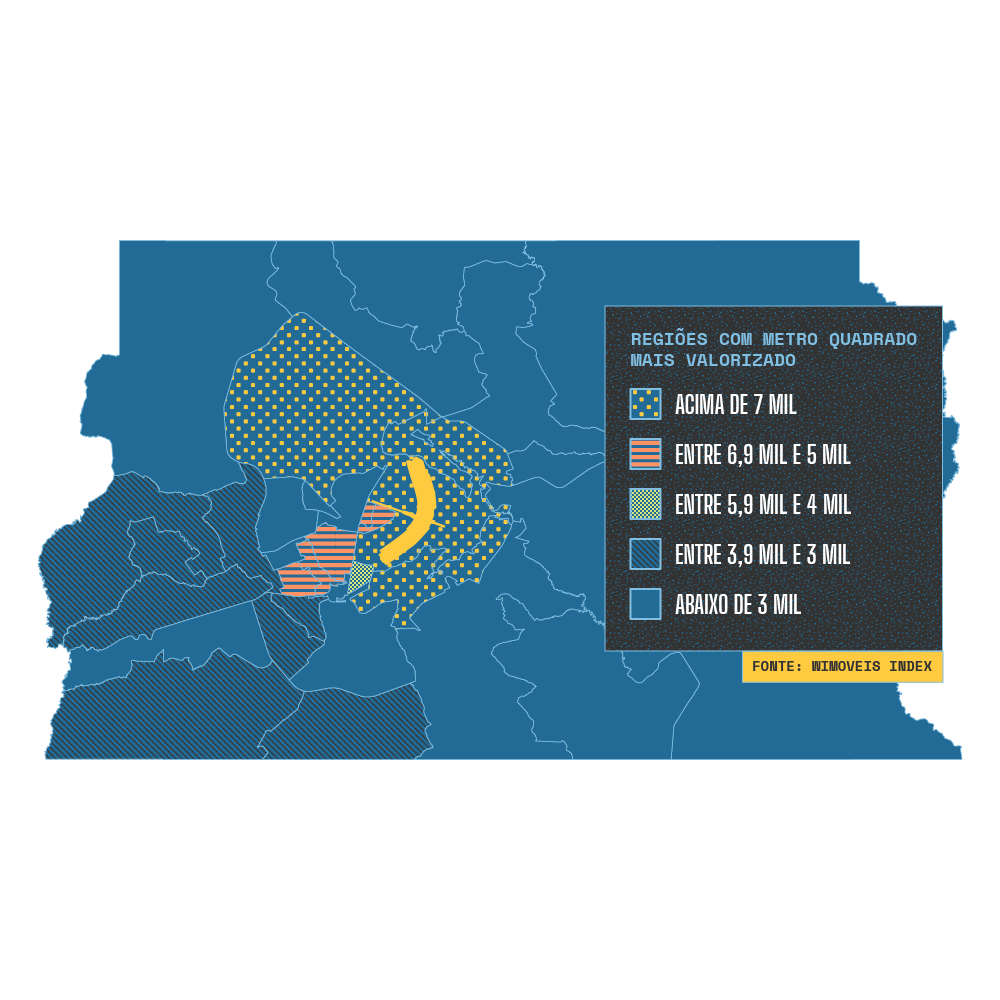
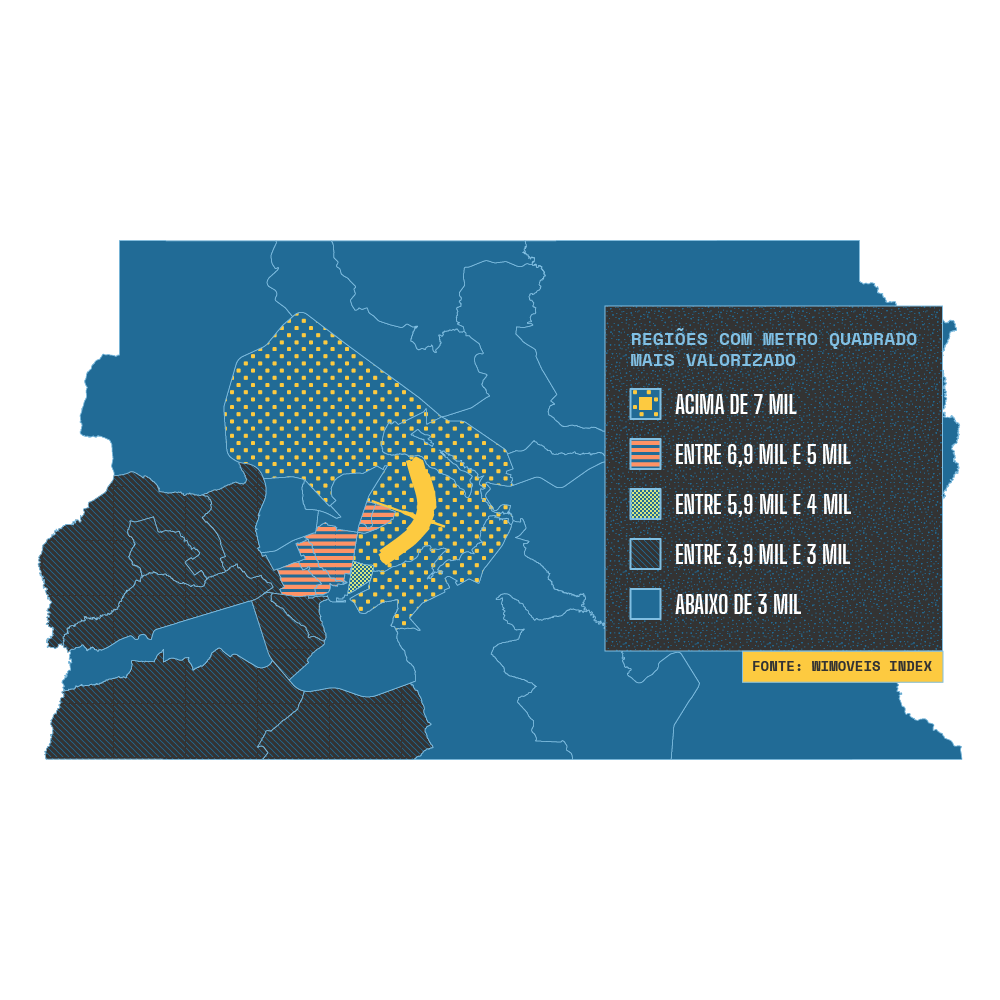
Added all map images and responsive text adjustments

Changed region(s): [[0.031, 0.465, 0.434, 0.775], [0.62, 0.527, 0.682, 0.589]]

diff --git a/em-site/src/pages/index.js b/em-site/src/pages/index.js
@@ -10,8 +10,12 @@ import Quote from "../components/partials/quote"
 import Content from "../content/content.yaml"
 import SideImages from "../components/maps/_images"
 import Attached from "../components/maps/_attached"
+import { useBreakpoint } from "gatsby-plugin-breakpoints"
 
 export default function Home() {
+
+  const breakpoints = useBreakpoint();
+
   return (
     <div>
       <Nav></Nav>
@@ -164,103 +168,104 @@ export default function Home() {
               source={Content.s6.c5.source}
             />
           </section> */}
+          {breakpoints.l ? (
+            <section className="map">
+              {/* <SideImages imgSrc={"s6_i1.png"} imgSrc2={"s6_i2.png"} /> */}
+              {/* s1 */}
+              <Attached
+                imgSrc={"intro.png"}
+                scrollPosition={[0.017, 0.022, 0.042, 0.062]}
+                scrollValue={[0, 1, 1, 0]}
+              />
+              <Attached
+                imgSrc={"s1c1.png"}
+                scrollPosition={[0.04, 0.045, 0.058, 0.062]}
+                scrollValue={[0, 1, 1, 0]}
+              />
+              <Attached
+                imgSrc={"s1c2.png"}
+                scrollPosition={[0.07, 0.075, 0.235, 0.238]}
+                scrollValue={[0, 1, 1, 0]}
+              />
+              <Attached
+                imgSrc={"s1c3.png"}
+                scrollPosition={[0.107, 0.11, 0.12, 0.128]}
+                scrollValue={[0, 1, 1, 0]}
+              />
+              <Attached
+                imgSrc={"s1c4.png"}
+                scrollPosition={[0.132, 0.135, 0.145, 0.148]}
+                scrollValue={[0, 1, 1, 0]}
+              />
+              <Attached
+                imgSrc={"s1c5.png"}
+                scrollPosition={[0.162, 0.165, 0.175, 0.178]}
+                scrollValue={[0, 1, 1, 0]}
+              />
+              <Attached
+                imgSrc={"s1c6.png"}
+                scrollPosition={[0.192, 0.195, 0.205, 0.208]}
+                scrollValue={[0, 1, 1, 0]}
+              />
+              <Attached
+                imgSrc={"s1c7.png"}
+                scrollPosition={[0.222, 0.225, 0.235, 0.238]}
+                scrollValue={[0, 1, 1, 0]}
+              />
 
-          <section className="map">
-            {/* <SideImages imgSrc={"s6_i1.png"} imgSrc2={"s6_i2.png"} /> */}
-            {/* s1 */}
-            <Attached
-              imgSrc={"intro.png"}
-              scrollPosition={[0.017, 0.022, 0.042, 0.062]}
-              scrollValue={[0, 1, 1, 0]}
-            />
-            <Attached
-              imgSrc={"s1c1.png"}
-              scrollPosition={[0.04, 0.045, 0.058, 0.062]}
-              scrollValue={[0, 1, 1, 0]}
-            />
-            <Attached
-              imgSrc={"s1c2.png"}
-              scrollPosition={[0.07, 0.075, 0.235, 0.238]}
-              scrollValue={[0, 1, 1, 0]}
-            />
-            <Attached
-              imgSrc={"s1c3.png"}
-              scrollPosition={[0.107, 0.11, 0.12, 0.128]}
-              scrollValue={[0, 1, 1, 0]}
-            />
-            <Attached
-              imgSrc={"s1c4.png"}
-              scrollPosition={[0.132, 0.135, 0.145, 0.148]}
-              scrollValue={[0, 1, 1, 0]}
-            />
-            <Attached
-              imgSrc={"s1c5.png"}
-              scrollPosition={[0.162, 0.165, 0.175, 0.178]}
-              scrollValue={[0, 1, 1, 0]}
-            />
-            <Attached
-              imgSrc={"s1c6.png"}
-              scrollPosition={[0.192, 0.195, 0.205, 0.208]}
-              scrollValue={[0, 1, 1, 0]}
-            />
-            <Attached
-              imgSrc={"s1c7.png"}
-              scrollPosition={[0.222, 0.225, 0.235, 0.238]}
-              scrollValue={[0, 1, 1, 0]}
-            />
-
-            {/* s2 */}
-            <Attached
-              imgSrc={"s1c2.png"}
-              scrollPosition={[0.282, 0.285, 0.515, 0.518]}
-              scrollValue={[0, 1, 1, 0]}
-            />
-            <Attached
-              imgSrc={"s2c1.png"}
-              scrollPosition={[0.282, 0.285, 0.325, 0.328]}
-              scrollValue={[0, 1, 1, 0]}
-            />
-            <Attached
-              imgSrc={"s2c2.png"}
-              scrollPosition={[0.312, 0.315, 0.325, 0.328]}
-              scrollValue={[0, 1, 1, 0]}
-            />
-            <Attached
-              imgSrc={"s2c3.png"}
-              scrollPosition={[0.342, 0.345, 0.355, 0.358]}
-              scrollValue={[0, 1, 1, 0]}
-            />
-            <Attached
-              imgSrc={"s2c4.png"}
-              scrollPosition={[0.362, 0.365, 0.375, 0.378]}
-              scrollValue={[0, 1, 1, 0]}
-            />
-            <Attached
-              imgSrc={"s2c5.png"}
-              scrollPosition={[0.382, 0.385, 0.395, 0.398]}
-              scrollValue={[0, 1, 1, 0]}
-            />
-            <Attached
-              imgSrc={"s2c6.png"}
-              scrollPosition={[0.412, 0.415, 0.425, 0.428]}
-              scrollValue={[0, 1, 1, 0]}
-            />
-            <Attached
-              imgSrc={"s2c7.png"}
-              scrollPosition={[0.442, 0.445, 0.455, 0.458]}
-              scrollValue={[0, 1, 1, 0]}
-            />
-            <Attached
-              imgSrc={"s2c8.png"}
-              scrollPosition={[0.472, 0.475, 0.485, 0.488]}
-              scrollValue={[0, 1, 1, 0]}
-            />
-            <Attached
-              imgSrc={"s2c9.png"}
-              scrollPosition={[0.502, 0.505, 0.515, 0.518]}
-              scrollValue={[0, 1, 1, 0]}
-            />
-          </section>
+              {/* s2 */}
+              <Attached
+                imgSrc={"s1c2.png"}
+                scrollPosition={[0.282, 0.285, 0.515, 0.518]}
+                scrollValue={[0, 1, 1, 0]}
+              />
+              <Attached
+                imgSrc={"s2c1.png"}
+                scrollPosition={[0.282, 0.285, 0.325, 0.328]}
+                scrollValue={[0, 1, 1, 0]}
+              />
+              <Attached
+                imgSrc={"s2c2.png"}
+                scrollPosition={[0.312, 0.315, 0.325, 0.328]}
+                scrollValue={[0, 1, 1, 0]}
+              />
+              <Attached
+                imgSrc={"s2c3.png"}
+                scrollPosition={[0.342, 0.345, 0.355, 0.358]}
+                scrollValue={[0, 1, 1, 0]}
+              />
+              <Attached
+                imgSrc={"s2c4.png"}
+                scrollPosition={[0.362, 0.365, 0.375, 0.378]}
+                scrollValue={[0, 1, 1, 0]}
+              />
+              <Attached
+                imgSrc={"s2c5.png"}
+                scrollPosition={[0.382, 0.385, 0.395, 0.398]}
+                scrollValue={[0, 1, 1, 0]}
+              />
+              <Attached
+                imgSrc={"s2c6.png"}
+                scrollPosition={[0.412, 0.415, 0.425, 0.428]}
+                scrollValue={[0, 1, 1, 0]}
+              />
+              <Attached
+                imgSrc={"s2c7.png"}
+                scrollPosition={[0.442, 0.445, 0.455, 0.458]}
+                scrollValue={[0, 1, 1, 0]}
+              />
+              <Attached
+                imgSrc={"s2c8.png"}
+                scrollPosition={[0.472, 0.475, 0.485, 0.488]}
+                scrollValue={[0, 1, 1, 0]}
+              />
+              <Attached
+                imgSrc={"s2c9.png"}
+                scrollPosition={[0.502, 0.505, 0.515, 0.518]}
+                scrollValue={[0, 1, 1, 0]}
+              />
+            </section>
+          ) : null}
         </div>
       </Layout>
 

diff --git a/em-site/src/components/partials/content.module.scss b/em-site/src/components/partials/content.module.scss
@@ -7,6 +7,10 @@
   justify-content: center;
   padding: 0 4rem;
 
+  @include media-breakpoint-down(sm) {
+    padding: 0rem;
+  }
+
   svg {
     width: 120px;
     height: auto;
@@ -23,6 +27,11 @@
 
   p {
     margin-bottom: 2rem;
+
+    @include media-breakpoint-down(sm) {
+      padding: 0.5rem;
+      background-color: rgba(129, 191, 226, 0.7);
+    }
   }
 }
 
@@ -32,11 +41,33 @@
   height: 60vh;
   padding: 0 4rem;
 
+  @include media-breakpoint-down(sm) {
+    height: 120vh;
+    padding: 0;
+  }
+
+  h4 {
+    @include media-breakpoint-down(sm) {
+      padding: 0.5rem;
+      background-color: rgba(129, 191, 226, 0.7);
+    }
+  }
+
   h5 {
     text-align: right;
+
+    @include media-breakpoint-down(sm) {
+      padding: 0.5rem;
+      background-color: rgba(129, 191, 226, 0.7);
+    }
   }
 
   small {
     text-align: right;
+
+    @include media-breakpoint-down(sm) {
+      padding: 0.5rem;
+      background-color: rgba(129, 191, 226, 0.7);
+    }
   }
 }

diff --git a/em-site/src/components/partials/home.module.scss b/em-site/src/components/partials/home.module.scss
@@ -6,6 +6,7 @@
   min-height: 100vh;
   overflow: hidden;
   z-index: 100;
+  background-color: map-get($theme, dark);
 
   .homeVideo {
     width: 100%;
@@ -13,6 +14,13 @@
     position: absolute;
     top: 0;
     left: 0;
+
+    @include media-breakpoint-down(lg) {
+      width: auto;
+      height: 100%;
+      margin-left: 55vw;
+      transform: translate(-50%);
+    }
   }
 
   .overlay {
@@ -25,15 +33,29 @@
     z-index: 10;
     padding: 1rem 2rem;
 
+    @include media-breakpoint-down(sm) {
+      height: 70vh;
+    }
+
     h1 {
       text-align: center;
       color: map-get($theme, secondary);
       position: relative;
+
+      @include media-breakpoint-down(sm) {
+        font-size: 3rem;
+        line-height: 3.25rem;
+      }
     }
 
     h2 {
       text-align: center;
       color: #fff;
+
+      @include media-breakpoint-down(sm) {
+        font-size: 1.75rem;
+        line-height: 2rem;
+      }
     }
 
     .footer {

diff --git a/em-site/src/components/maps/map.module.scss b/em-site/src/components/maps/map.module.scss
@@ -9,6 +9,11 @@
   top: 0;
   right: 0;
 
+  @include media-breakpoint-down(md) {
+    align-items: flex-start;
+    padding: 1rem 0 0 0;
+  }
+
   svg {
     width: 800px;
     height: auto;
@@ -24,6 +29,10 @@
 
   .attContainer {
     width: 800px;
+
+    @include media-breakpoint-down(md) {
+      width: 100vw;
+    }
   }
 
   .imgContainer {

diff --git a/em-site/src/components/nav.module.scss b/em-site/src/components/nav.module.scss
@@ -13,6 +13,10 @@
     justify-content: center;
     padding: 0 5rem;
 
+    @include media-breakpoint-down(sm) {
+      padding: 0;
+    }
+
     .navContainer {
       width: 100%;
       padding: 1rem 2rem;

diff --git a/em-site/src/components/layout.module.scss b/em-site/src/components/layout.module.scss
@@ -1,5 +1,9 @@
 @import "../styles/utilities";
 
 .pageLayout {
-	margin: 1rem 2rem;
+  margin: 1rem 2rem;
+
+  @include media-breakpoint-down(sm) {
+    margin: 0.5rem 1rem;
+  }
 }

diff --git a/em-site/gatsby-config.js b/em-site/gatsby-config.js
@@ -74,6 +74,7 @@ module.exports = {
         },
       },
     },
+    `gatsby-plugin-breakpoints`,
   ], 
 } 
 
